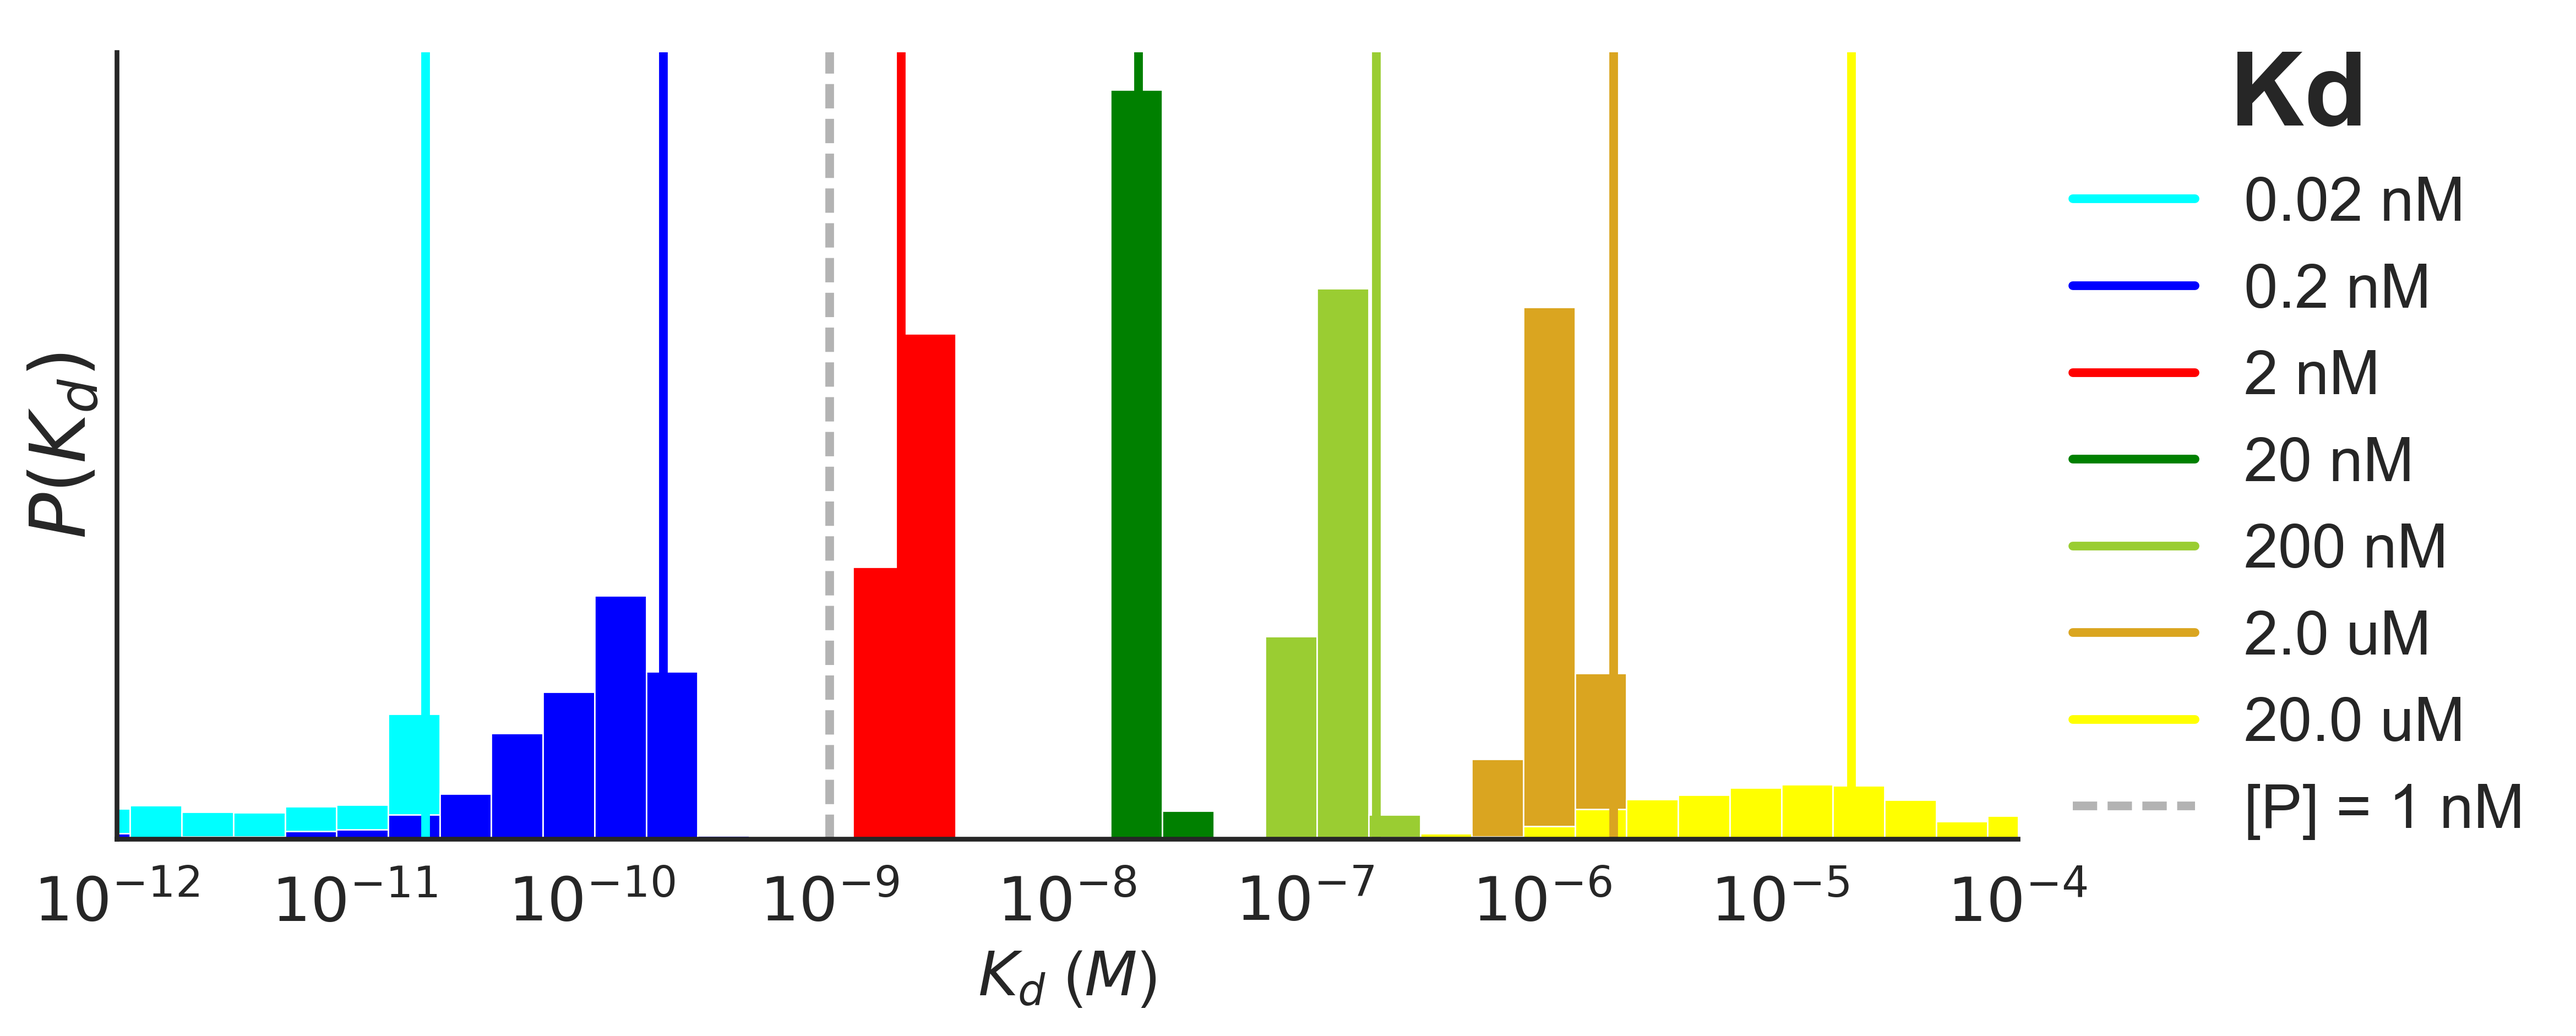
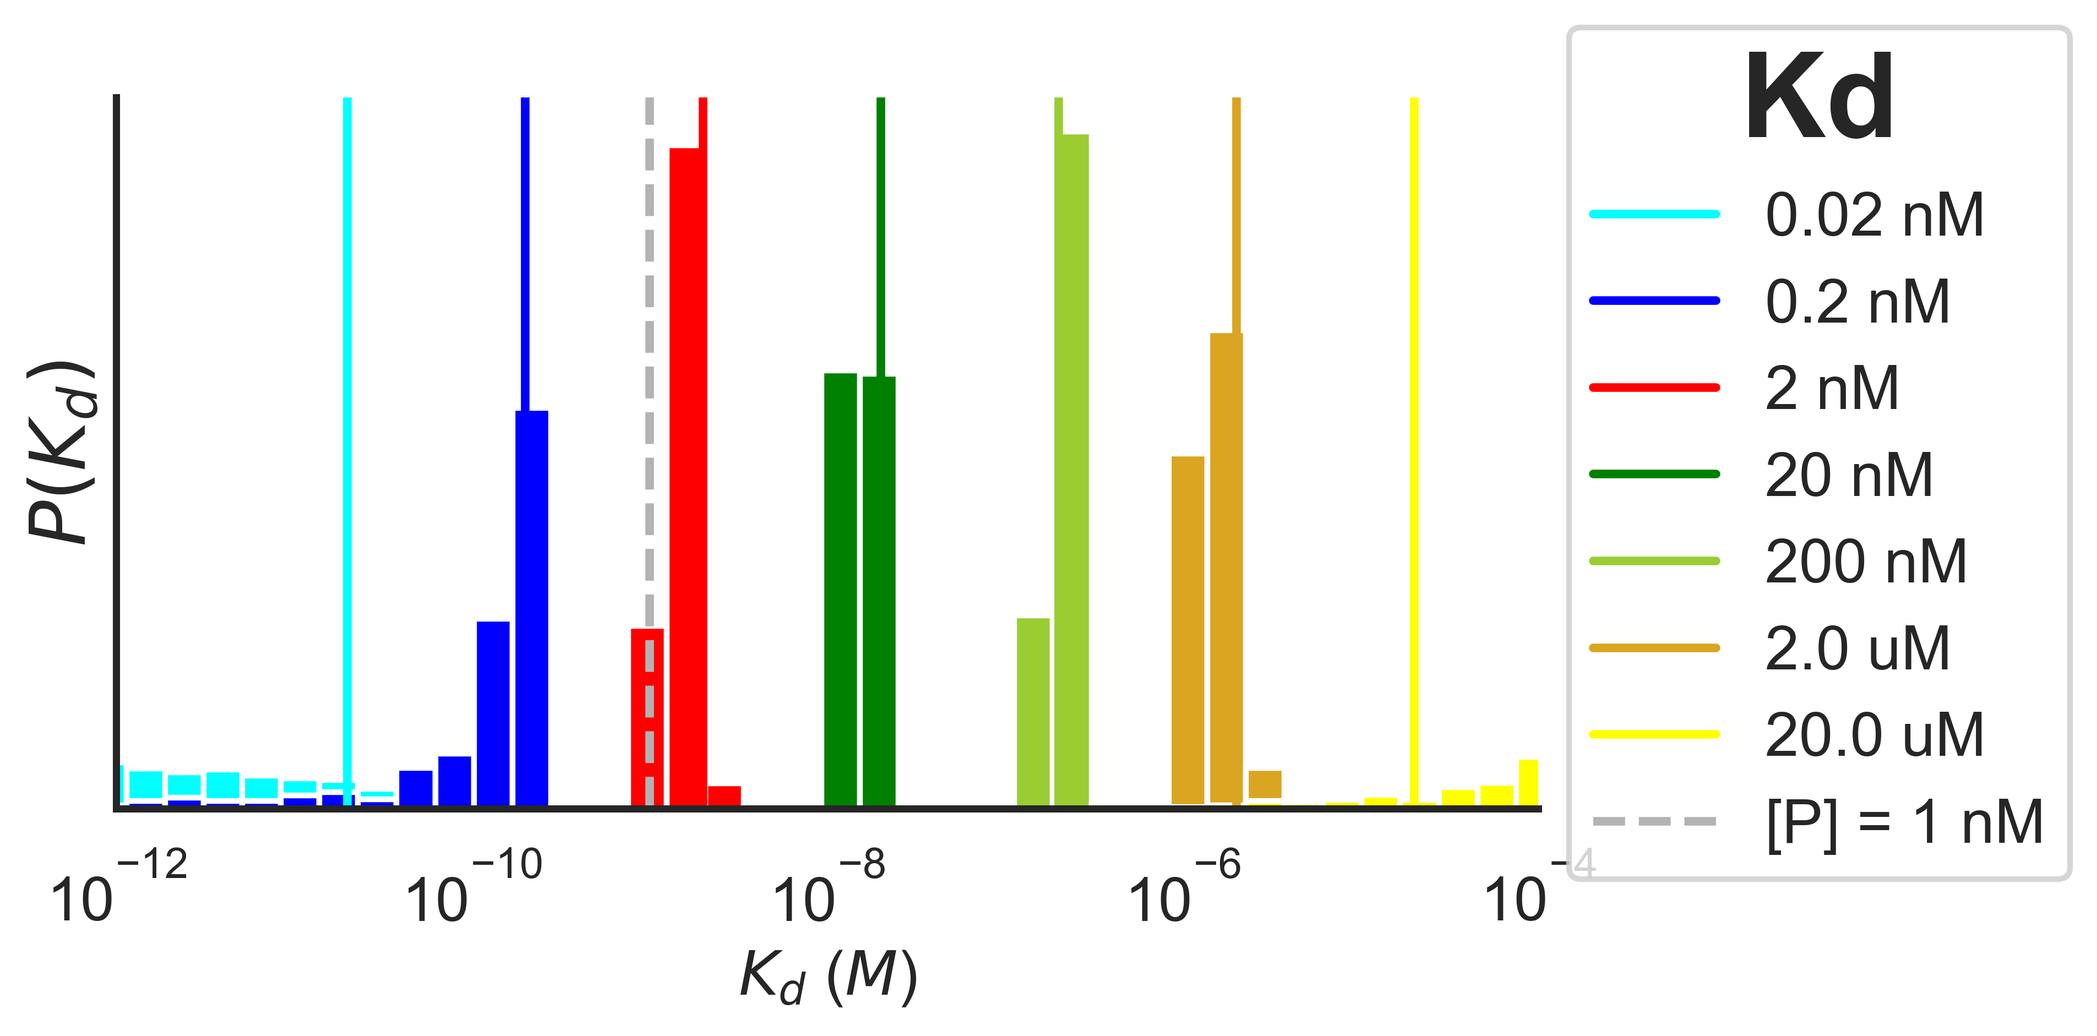
updating Figure 2 according to JDC suggestion

Changed region(s): [[0.0, 0.0, 0.9997, 0.9862], [0.1562, 0.0616, 0.1875, 0.0925]]

diff --git a/figures/Figure2/generate_protein_concentration_simulation_fig.py b/figures/Figure2/generate_protein_concentration_simulation_fig.py
@@ -76,7 +76,7 @@ pymc_model = pymcmodels.make_model(Ptot, dPstated, Ltot, dLstated,
     use_primary_inner_filter_correction=True,
     use_secondary_inner_filter_correction=True,
     assay_volume=assay_volume, DG_prior='uniform')
-mcmc = pymcmodels.run_mcmc(pymc_model)
+mcmc = pymcmodels.run_mcmc(pymc_model,db = 'pickle', dbname = '2nM_Kd_mcmc.pickle')
 
 #Let's define a list of Kd's, which will include our original Kd (2e-9 M):
 # Note here that our protein concentration is: Ptot = 1e-9 # M
@@ -118,7 +118,7 @@ for i,Kd in enumerate(Kd_list):
         use_secondary_inner_filter_correction=True,
         assay_volume=assay_volume, DG_prior='uniform')
     
-    mcmc_list.append(pymcmodels.run_mcmc(pymc_model))
+    mcmc_list.append(pymcmodels.run_mcmc(pymc_model,db = 'pickle', dbname = 'Kdlist_%s_mcmc.pickle'%i))
     
     F_PL_i_list.append(F_PL_i)
     F_L_i_list.append(F_L_i)
@@ -170,8 +170,8 @@ plt.setp(legend.get_title(),weight='bold')
 
 plt.tight_layout()
 
-plt.savefig('simulated_fluorescence_P_1nM.png', dpi=500, bbox_inches='tight')
-plt.savefig('simulated_fluorescence_P_1nM.pdf', bbox_inches='tight')
+plt.savefig('simulated_fluorescence_P_1nM-update.png', dpi=500, bbox_inches='tight')
+plt.savefig('simulated_fluorescence_P_1nM-update.pdf', bbox_inches='tight')
 
 plt.close()
 
@@ -201,8 +201,8 @@ plt.setp(legend.get_title(),weight='bold')
 
 plt.tight_layout()
 
-plt.savefig('simulated_fluorescence_delG_result.png', dpi=500, bbox_inches='tight')
-plt.savefig('simulated_fluorescence_delG_result.pdf', bbox_inches='tight')
+plt.savefig('simulated_fluorescence_delG_result-update.png', dpi=500, bbox_inches='tight')
+plt.savefig('simulated_fluorescence_delG_result-update.pdf', bbox_inches='tight')
 
 plt.close()
 
@@ -233,8 +233,8 @@ plt.setp(legend.get_title(),weight='bold')
 
 plt.tight_layout()
 
-plt.savefig('simulated_fluorescence_Kd_result.png', dpi=500, bbox_inches='tight')
-plt.savefig('simulated_fluorescence_Kd_result.pdf', bbox_inches='tight')
+plt.savefig('simulated_fluorescence_Kd_result-update.png', dpi=500, bbox_inches='tight')
+plt.savefig('simulated_fluorescence_Kd_result-update.pdf', bbox_inches='tight')
 
 plt.close()
 
@@ -274,8 +274,8 @@ plt.yticks(fontsize=16);
 
 plt.tight_layout()
 
-plt.savefig('simulated_fluorescence_CV_bias.png', dpi=500, bbox_inches='tight')
-plt.savefig('simulated_fluorescence_CV_bias.pdf', bbox_inches='tight')
+plt.savefig('simulated_fluorescence_CV_bias-update.png', dpi=500, bbox_inches='tight')
+plt.savefig('simulated_fluorescence_CV_bias-update.pdf', bbox_inches='tight')
 
 plt.close()
 
